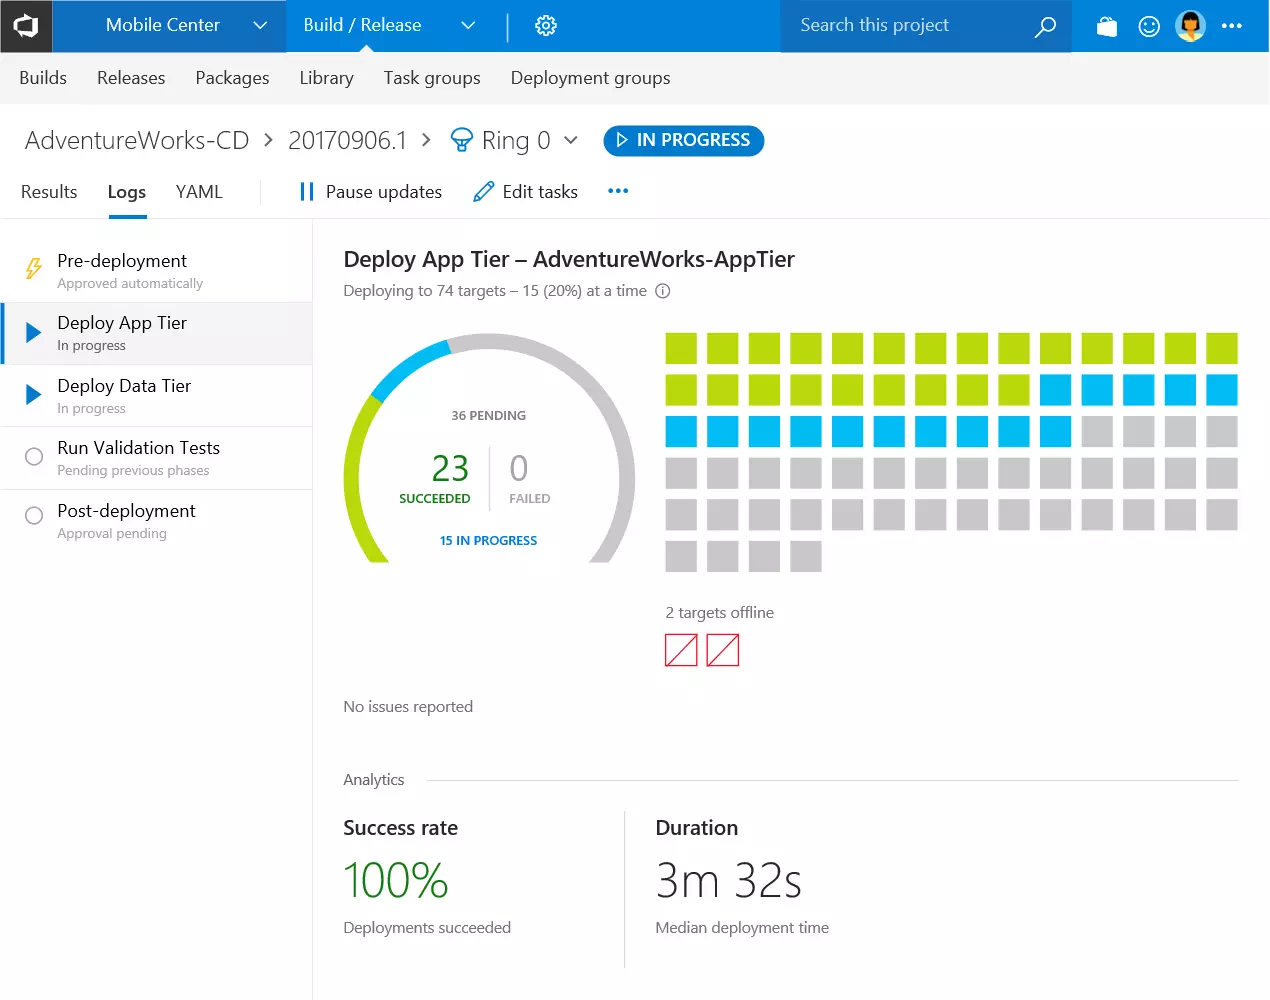
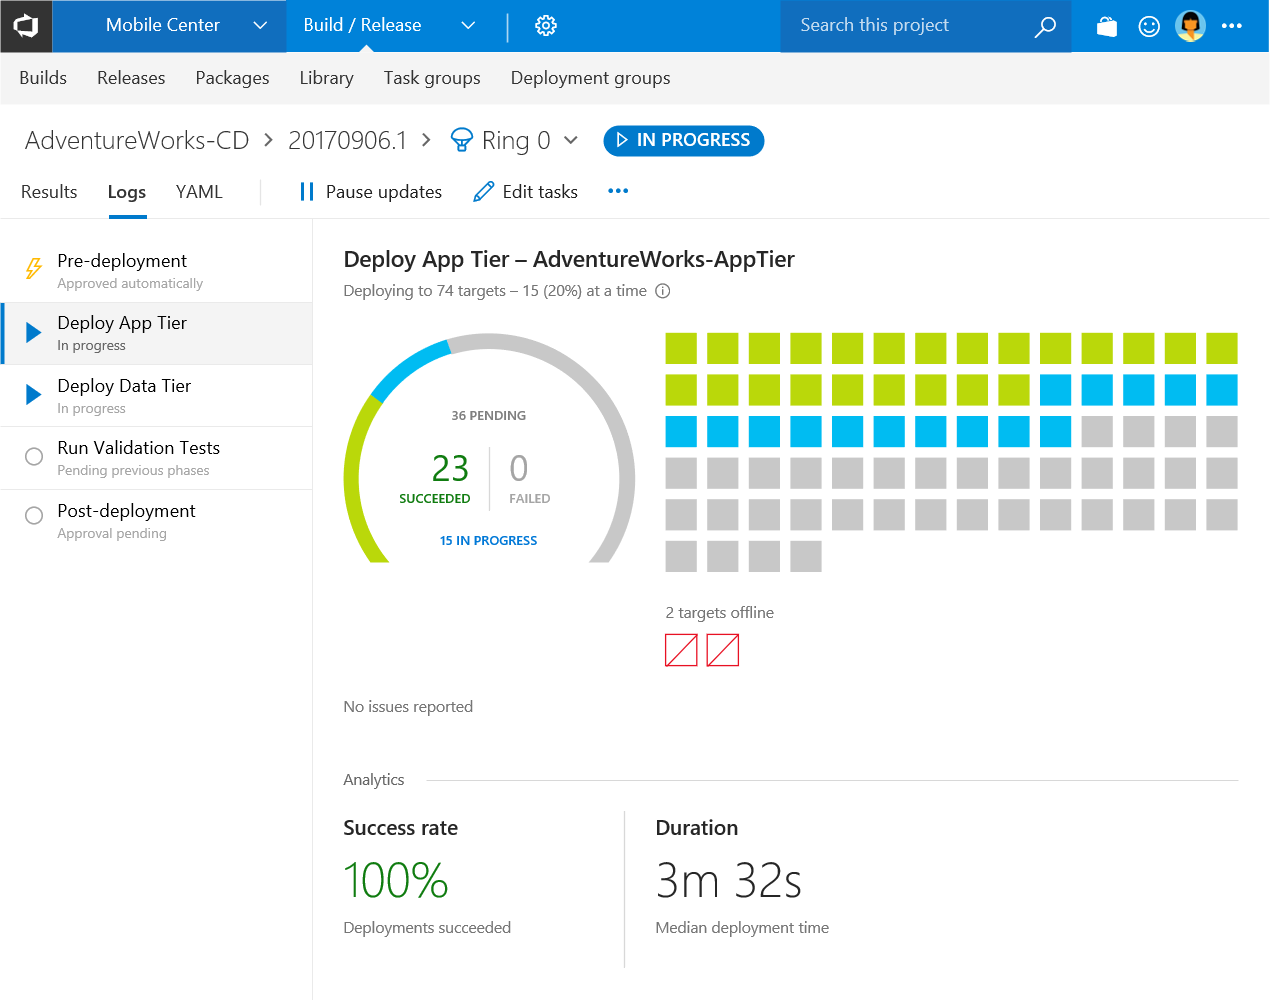
Adding resized images for inline previews

diff --git a/_site/index.htm b/_site/index.htm
@@ -24,7 +24,7 @@
                 The way that the editor is virtualized constrains the options for layouts and scrolling behavior, but I was able to come up with a clean, simple solution.</p>
             <figure>
                 <a href="_assets/images/yaml-editor.webp">
-                    <img src="_assets/images/yaml-editor.webp" class="depth-16" width="800" height="500" alt="Azure Pipelines pipeline (YAML) editor" />
+                    <img src="_assets/images/yaml-editor-800.webp" class="depth-16" width="800" height="500" alt="Azure Pipelines pipeline (YAML) editor" />
                 </a>
                 <figcaption>Azure Pipelines pipeline (YAML) editor</figcaption>
             </figure>
@@ -34,7 +34,7 @@
                 We ended up going in a somewhat different direction with this design, but this an exploration I designed during the process.</p>
             <figure>
                 <a href="_assets/images/pipeline-runs.webp">
-                    <img src="_assets/images/pipeline-runs.webp" class="depth-16" width="800" height="500" alt="Azure Pipelines view of runs for a selected multi-stage pipeline" />
+                    <img src="_assets/images/pipeline-runs-800.webp" class="depth-16" width="800" height="500" alt="Azure Pipelines view of runs for a selected multi-stage pipeline" />
                 </a>
                 <figcaption>Azure Pipelines view of runs for a selected multi-stage pipeline</figcaption>
             </figure>
@@ -43,7 +43,7 @@
                 Since deploying to a Kubernetes cluster is a fairly complex process, I came up with a simple way to capture some additional configuration information during the process.</p>
             <figure>
                 <a href="_assets/images/deploy-to-kubernetes.webp">
-                    <img src="_assets/images/deploy-to-kubernetes.webp" class="depth-16" width="800" height="500" alt="New pipline to deploy a container image to a Kubernetes cluster on Azure" />
+                    <img src="_assets/images/deploy-to-kubernetes-800.webp" class="depth-16" width="800" height="500" alt="New pipline to deploy a container image to a Kubernetes cluster on Azure" />
                 </a>
                 <figcaption>New pipline to deploy a container image to a Kubernetes cluster on Azure</figcaption>
             </figure>
@@ -52,7 +52,7 @@
                 In this case, I was asked to design an experience for protecting branches matching a pattern across a (potentially large) set of Git repositories.</p>
             <figure>
                 <a href="_assets/images/branch-protection-pipeline-policy.webp">
-                    <img src="_assets/images/branch-protection-pipeline-policy.webp" class="depth-16" width="800" height="500" alt="Azure Repos branch protection policies allow you to validate your changes by running a pipeline" />
+                    <img src="_assets/images/branch-protection-pipeline-policy-800.webp" class="depth-16" width="800" height="500" alt="Azure Repos branch protection policies allow you to validate your changes by running a pipeline" />
                 </a>
                 <figcaption>Azure Repos branch protection policies allow you to validate your changes by running a pipeline</figcaption>
             </figure>
@@ -61,7 +61,7 @@
                 It looks a bit dated by current standards, but it gives you some idea of what I can do even under those kinds of constraints.</p>
             <figure>
                 <a href="_assets/images/deployment-group-progress.webp">
-                    <img src="_assets/images/deployment-group-progress.webp" class="depth-16" alt="Conveying progress while deploying a web application to a group of 74 machines" />
+                    <img src="_assets/images/deployment-group-progress-800.webp" class="depth-16" alt="Conveying progress while deploying a web application to a group of 74 machines" />
                 </a>
                 <figcaption>Conveying progress while deploying a web application to a group of 74 machines</figcaption>
             </figure>
